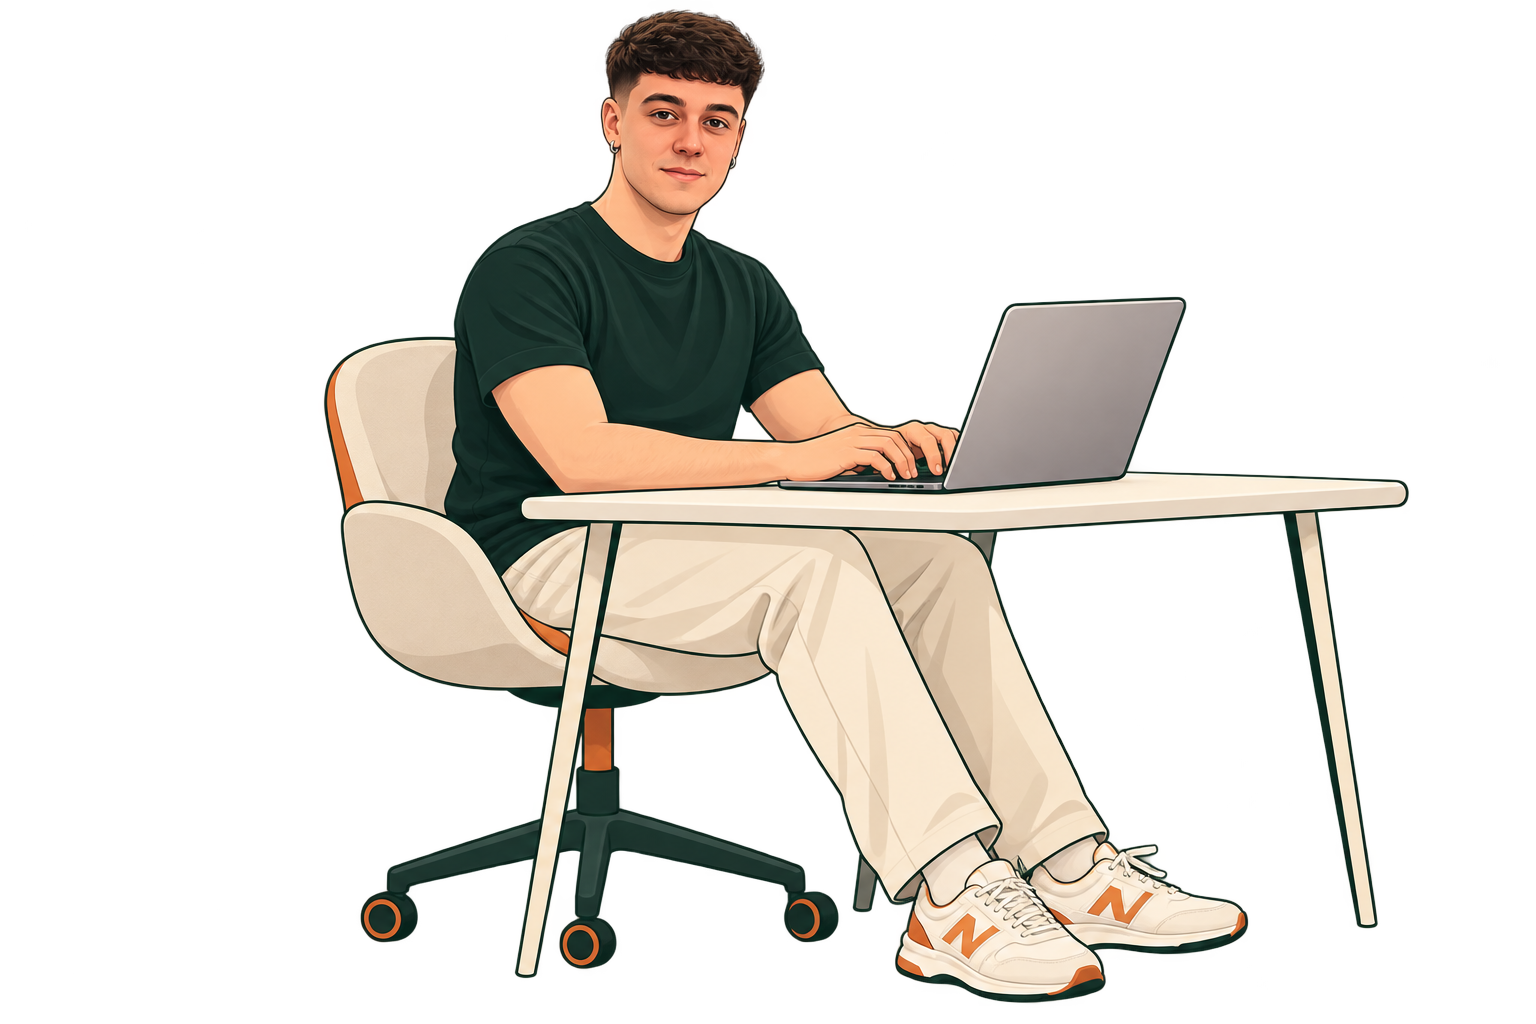
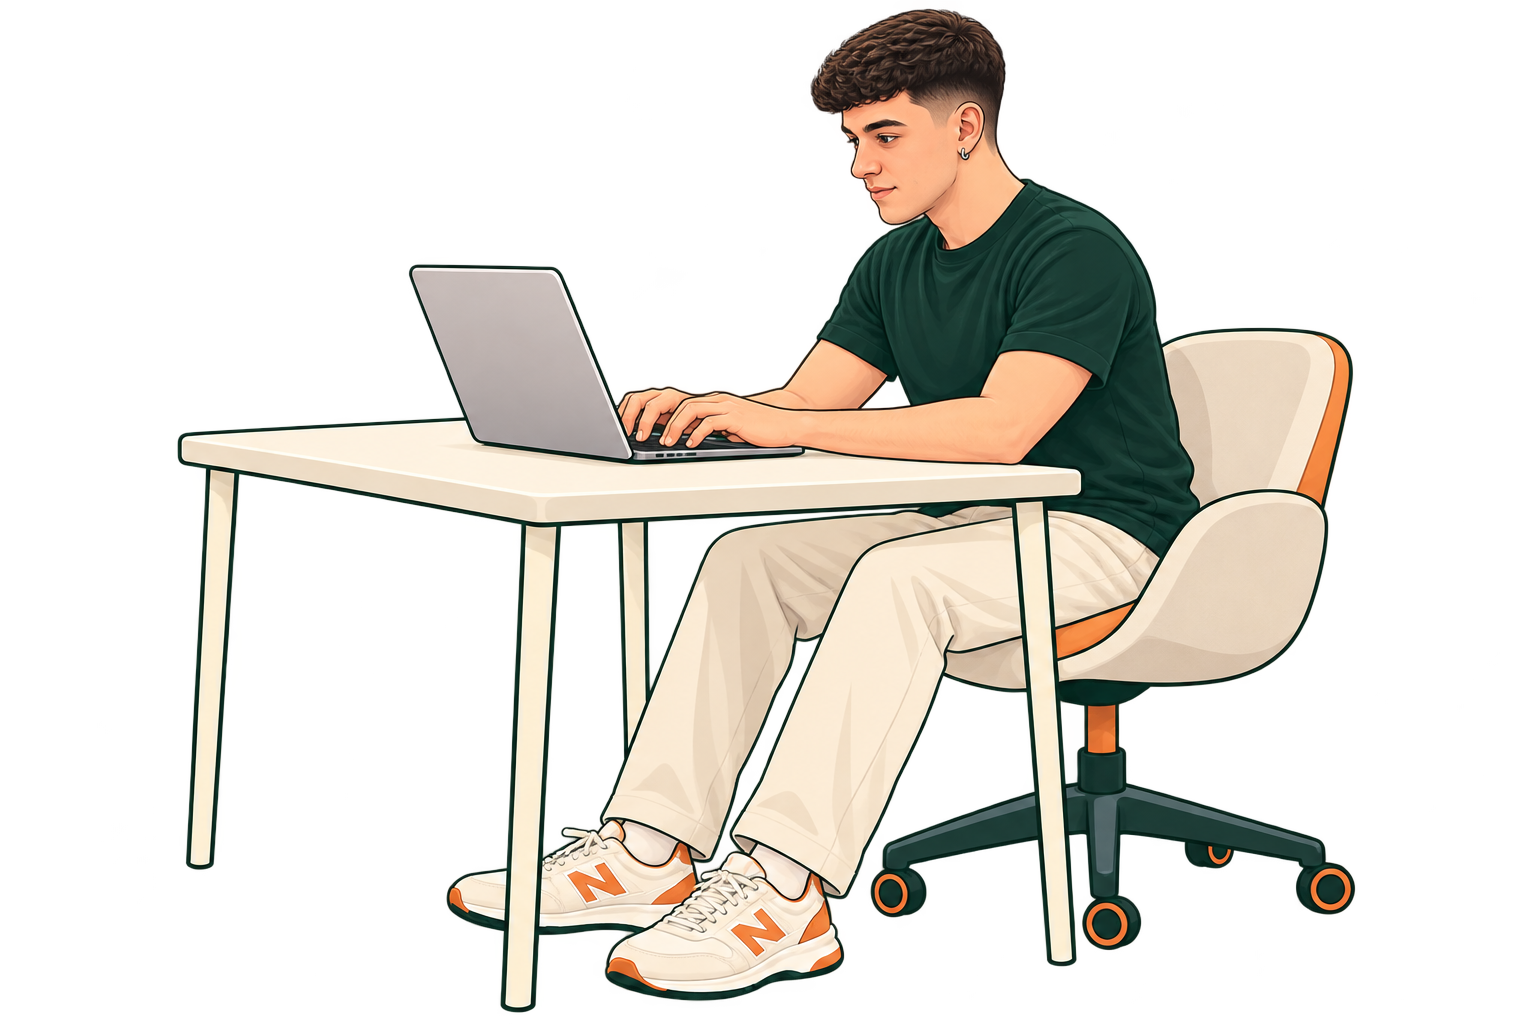
Turn developer illustration left and complete desk supports

diff --git a/src/components/DeveloperIllustration.jsx b/src/components/DeveloperIllustration.jsx
@@ -3,7 +3,7 @@ export default function DeveloperIllustration({ dark }) {
     <img
       className="developer-illustration"
       src={`/illustrations/martin-${dark ? "dark" : "light"}.png`}
-      alt="Ilustración de Martín Fierro sentado en su escritorio, trabajando en un portátil."
+      alt="Ilustración de Martín Fierro sentado frente a un portátil orientado hacia la izquierda, mirando la pantalla mientras escribe."
       width={1536}
       height={1024}
       fetchPriority="high"
